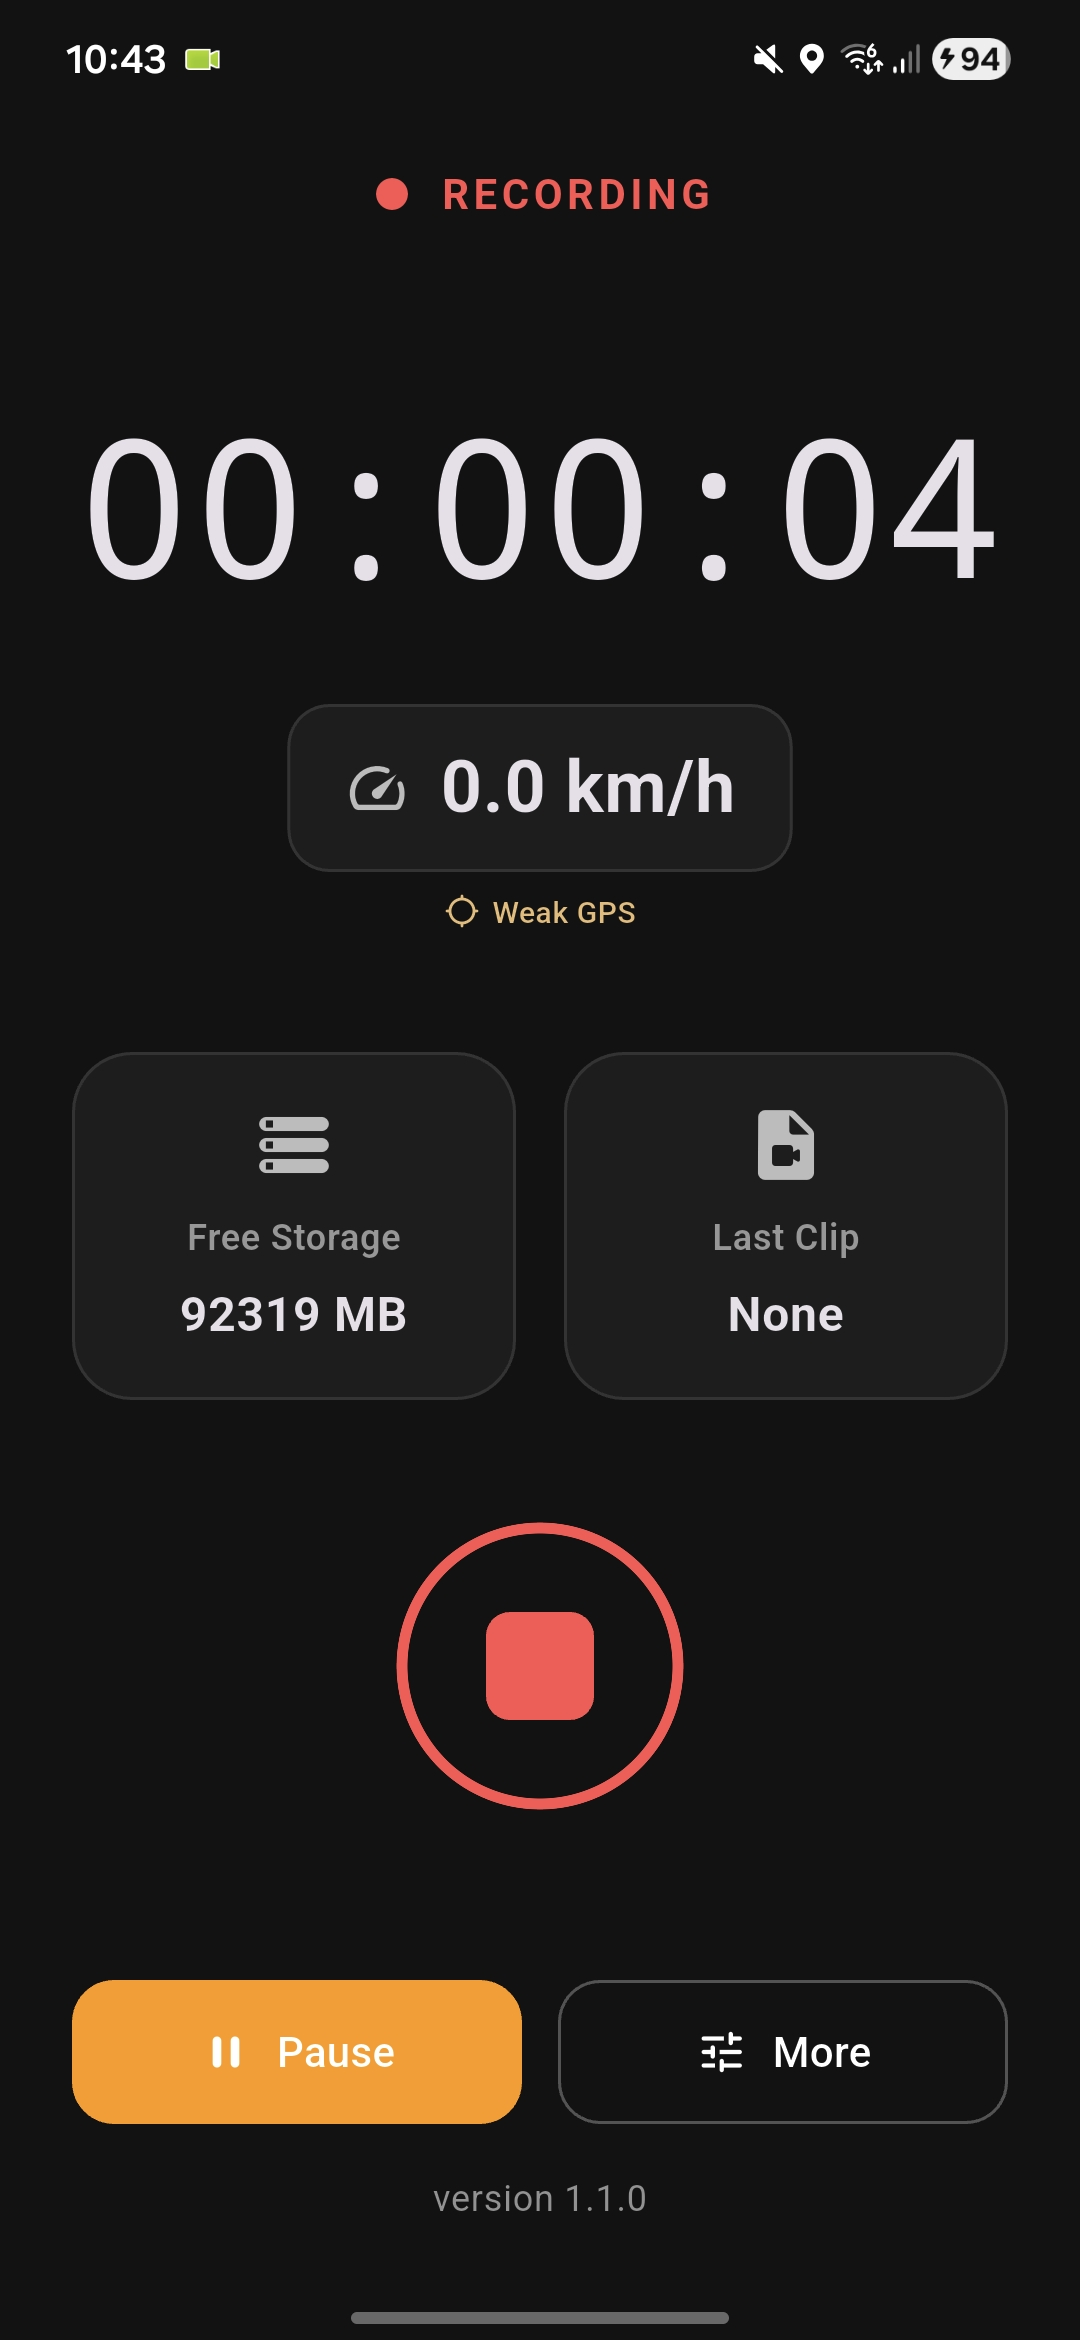
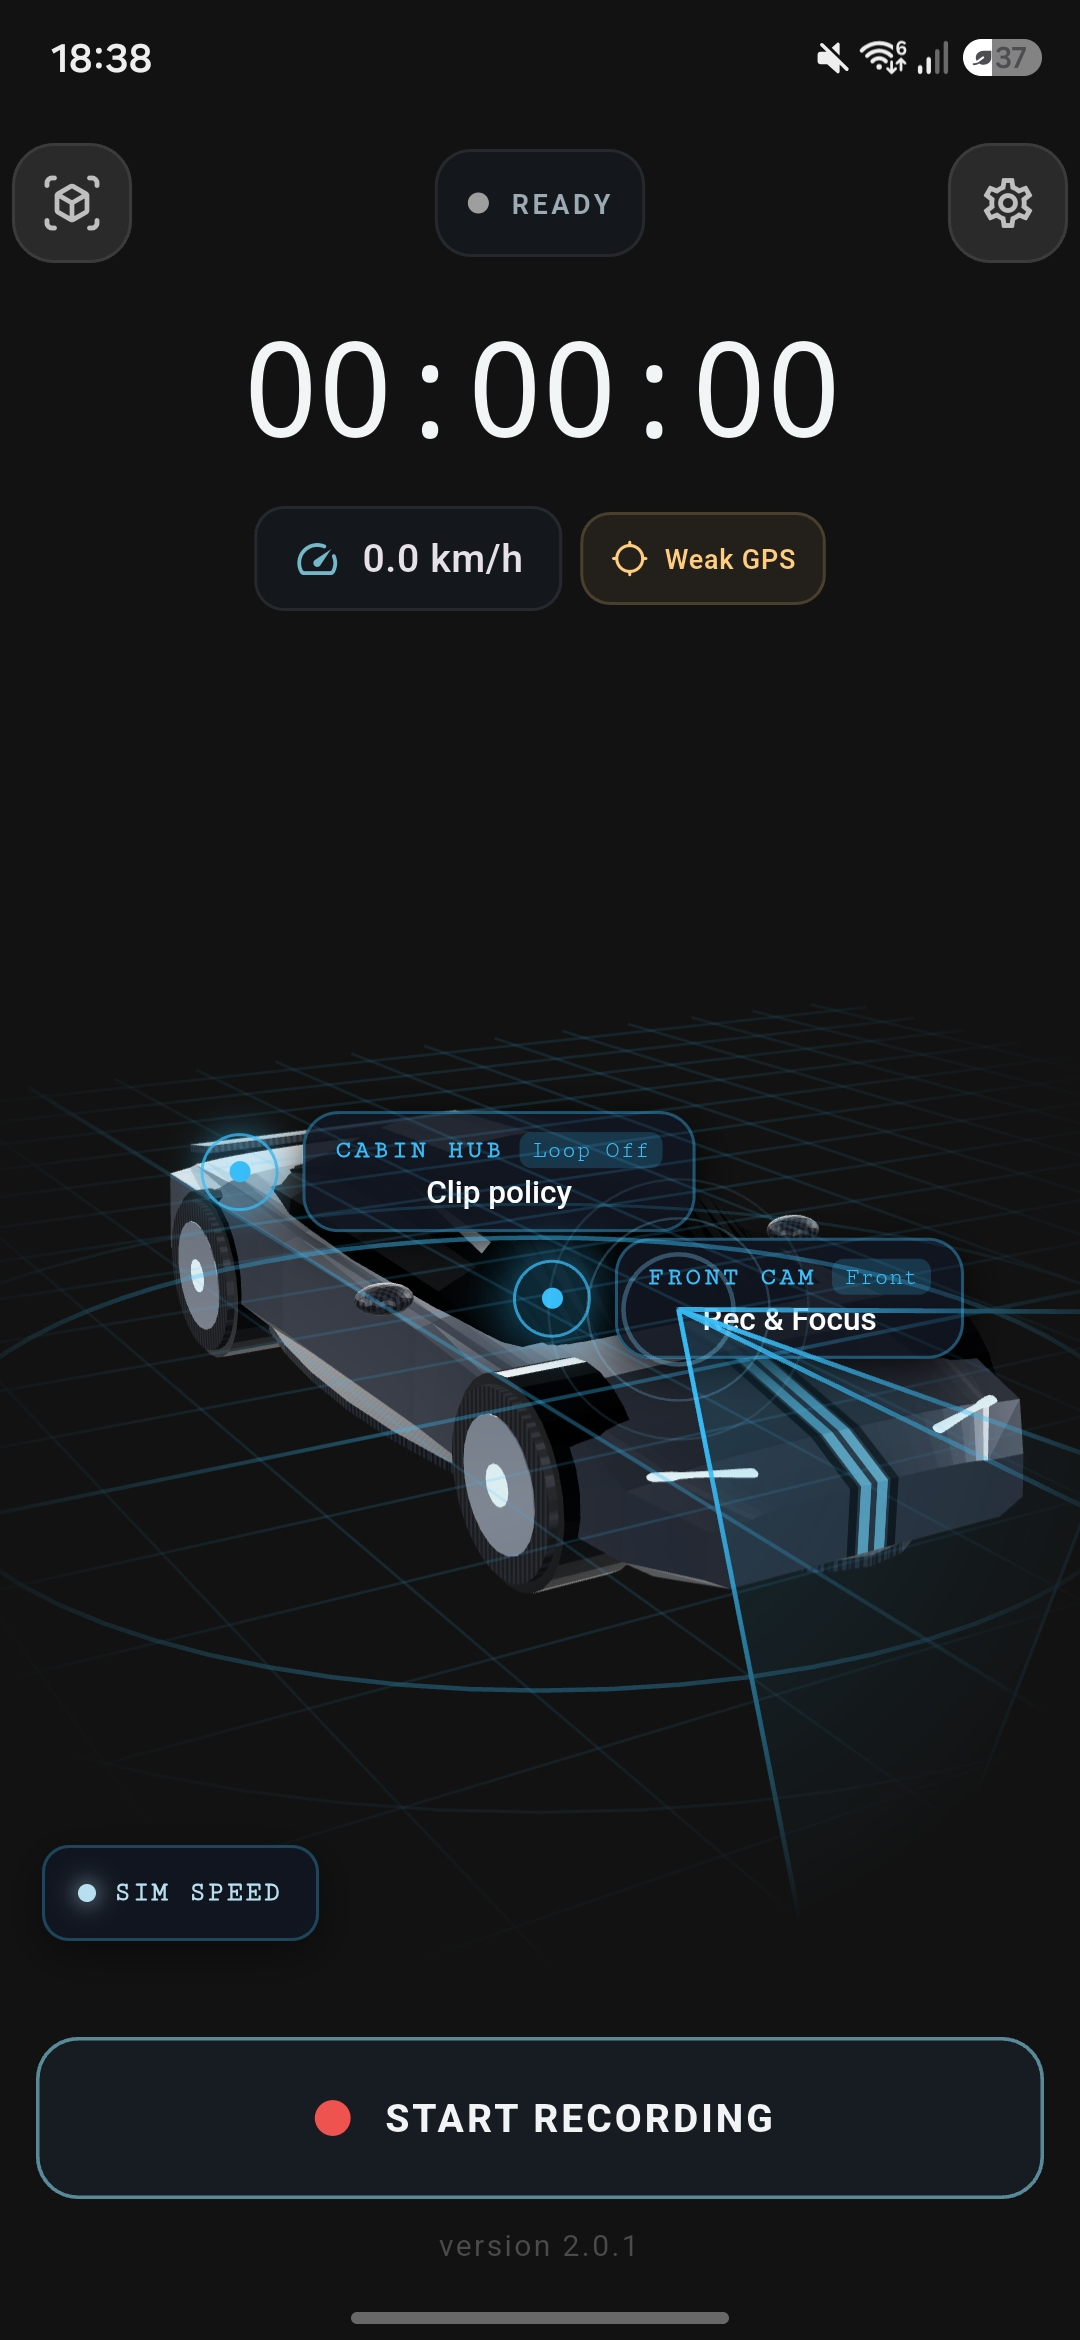
README.md

diff --git a/README.md b/README.md
@@ -2,51 +2,34 @@
 
 [![Release](https://img.shields.io/github/v/release/Starry03/dashcam?style=flat-square)](https://github.com/Starry03/dashcam/releases) [![License](https://img.shields.io/github/license/Starry03/dashcam?style=flat-square)](LICENSE) [![Last Commit](https://img.shields.io/github/last-commit/Starry03/dashcam?style=flat-square)](https://github.com/Starry03/dashcam/commits) [![Issues](https://img.shields.io/github/issues/Starry03/dashcam?style=flat-square)](https://github.com/Starry03/dashcam/issues) [![Stars](https://img.shields.io/github/stars/Starry03/dashcam?style=flat-square)](https://github.com/Starry03/dashcam/stargazers)
 
-Dashcam is a Flutter + Android (Kotlin/CameraX) app that turns your phone into a practical in-car dashcam with foreground recording, loop management, and quick controls.
+Dashcam is a Flutter (Kotlin/CameraX) app that turns your phone into a practical in-car dashcam with foreground recording, loop management, and quick controls.
+
+<p>
+  <img src="./assets/home.jpg" alt="Home screen" width="250" />
+</p>
+
 
 ## Notes
 
-Please, as you can see, this app is clearly made using ai. I barely know the code behind, as I created this app for personal use initially.
+Do you want an
+- overengineered
+- vibecoded
+- only android
 
-I don't code mobile apps.
+dashcam application?
 
-## Current Status
+### Advantages
+- you have a free dashcam
+- background recording (no need to keep you camera running which can distract you)
+- autofocus (so you don't record your car but the others)
 
-- Platform: Android (primary)
-- App version: 1.6.0
-- Core stack: Flutter UI + native CameraX foreground service
+## Download
 
-## Features
+Available for android
 
-- Continuous segmented recording in a foreground service
-- Pause, resume, and stop recording (in app and notification controls)
-- Quick incident lock for current segment
-- Loop cleanup of oldest unlocked clips when space is low
-- Live dashboard with:
-  - recording timer
-  - speed (GPS based)
-  - free storage
-  - latest clip status
-- Low storage alert when remaining space is <= 5 GB
-- Recording started notification
-- Camera lens toggle (front/rear)
+[Download latest release](https://github.com/Starry03/dashcam/releases/latest)
 
-## Notification Controls
-
-Foreground notification provides quick actions without reopening the app:
-
-- Pause / Resume
-- Stop
-- Timer + current speed shown in notification text
-
-## Battery and Efficiency Notes
-
-Recent optimizations included:
-
-- GPS tracking suspended when app is in background and recording is not active
-
-
-## Getting Started
+## Local development
 
 ### Requirements
 
@@ -71,17 +54,6 @@ flutter pub get
 flutter build apk
 ```
 
-## Preview
-
-<p align="center">
-  <img src="./assets/home.jpg" alt="Home screen" width="250" />
-  &nbsp;&nbsp;&nbsp;&nbsp;
-  <img src="./assets/notify.jpg" alt="Notification controls screen" width="250" />
-</p>
-
 ## Roadmap
 
-- Improve velocity calculation
-- Improve storage policy settings from UI
-- Better analytics and crash diagnostics
-- iOS parity where platform constraints allow
+- iOS parity
